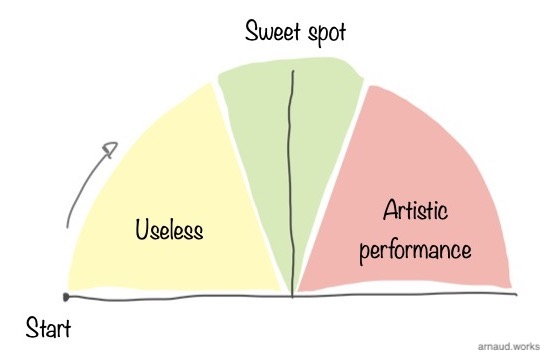
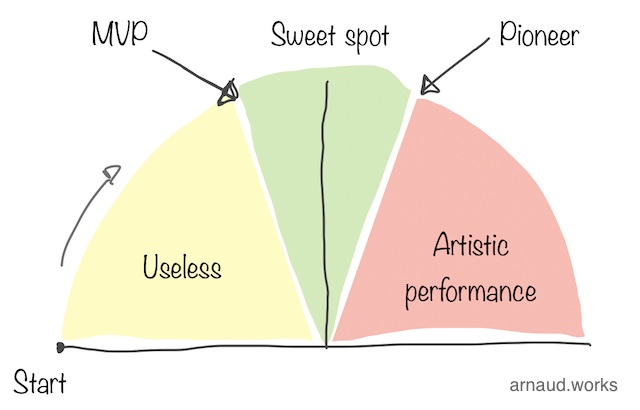
Finished the product sweet spot

diff --git a/pirates-way/productsweetspot.html b/pirates-way/productsweetspot.html
@@ -26,7 +26,35 @@
 <div id='centralcontainer'>
 
     <h3>Product Sweet Spot</h3>
-<p>Coming Soon...</p>
+<p>Whenever I use the word 'product', there is a context implied: 
+You're building something specific for a designated audience that is willing to pay (one way or the other) to have access to this product.
+This also means that it is important to build what this audience truly wants - not much more, not much less - or you won't pass the buy test.</p>
+<p>I talk more on that subject in the Product section below, but figuring out what to build is fundamentally what most people expect when they are looking for product management and/or leadership. </p>
+<p>The process can quickly become murky. Feelings become facts when all sorts of persona come into the mix. 
+This infographic about the animals of product management summarizes it perfectly.</p>
+<p><img alt="Dangerous Animals" src="./images/dangerousanimals.jpg" /></p>
+<p>One of the tool I use to handle this situation is the gauge below. It simply explains the progress of any product from nothing to too much.</p>
+<p>Used properly, it allows you to take a minute and ask yourself where you are. Where this feature, this roadmap is taking you.</p>
+<p><img alt="Product Gauge" src="./images/product_gauge.jpg" /></p>
+<p>Every product development effort start with nothing, and for a giving time it's pretty useless as features are lacking and bugs are overwhelming.</p>
+<p>Eventually, things gets to a point where we're entering a state where the product delivers on what our customer is expecting. 
+You're about to enter the sweet spot, you've got an <strong>MVP</strong>.</p>
+<p>As you continue polishing your product, you enter deeper into the Sweet Spot. 
+You've got a great product that isn't going too far, didn't cost you too much to build and that satisfies your customer fully.</p>
+<p>Going further, you start adding additional features - things like extensions, integrations, nice-to-haves - and this can be beneficial to expand your market, handle edge cases better, defend yourself against the competition.
+Your product is <strong>pioneering</strong> new areas.</p>
+<p>If you take it too far though, you find yourself in the area I call the 'Artistic Performance'.
+In there, you spent a lot of time, money and energy to build the features - and they are cool, fun and impressive - but they aren't addressing what your customer really wants. 
+They wouldn't buy your product any less if it didn't have all these features, and this can easily be exploited by your competition.</p>
+<p>Artistic Performance land is hyper seductive to product owners and engineers as it's where things are the most fun to build, but we aren't building hobby projects, we are building products, and we can't lose sight of who we build it for.</p>
+<p>The tricky question is how can you pinpoint precisely the sweet spot and the two milestones that borders it - the MVP and the Pioneering product.</p>
+<p>I have another tool that add a dimension to help you:</p>
+<p><img alt="Product Rings" src="./images/product_concentrics.jpg" /></p>
+<p>Categorize the features, capabilities you have on these rings. Focus on the one in the center. Don't venture into the next one until 80% of the previous ring is polished.</p>
+<p>There is a lot more to product management than this, but these tools will provide you the perspective you need to keep you from slipping and stay in the sweet spot.</p>
+<p>On a weekly basis I mention the artistic performance. On countless occasions, I had to ground teams of engineers, managers and executives out of the artistic performance as they got carried away into building things our customers didn't actually want.
+So use these tools, take a minute and position yourself. </p>
+<p>Be in the sweet spot, keep the artistic performances for your hobbies or side projects, and build excellent products.</p>
 
 </div>
 <div id='navigation'>

diff --git a/pirates-way/pirates-way.md b/pirates-way/pirates-way.md
@@ -640,8 +640,54 @@ Coming Soon...
 @#$productsweetspot$#@
 ### Product Sweet Spot
 
-[//]: # (![Product Gauge]&#40;./images/product_gauge.jpg&#41;)
-Coming Soon...
+Whenever I use the word 'product', there is a context implied: 
+You're building something specific for a designated audience that is willing to pay (one way or the other) to have access to this product.
+This also means that it is important to build what this audience truly wants - not much more, not much less - or you won't pass the buy test.
+
+I talk more on that subject in the Product section below, but figuring out what to build is fundamentally what most people expect when they are looking for product management and/or leadership. 
+
+The process can quickly become murky. Feelings become facts when all sorts of persona come into the mix. 
+This infographic about the animals of product management summarizes it perfectly.
+
+![Dangerous Animals](./images/dangerousanimals.jpg)
+
+One of the tool I use to handle this situation is the gauge below. It simply explains the progress of any product from nothing to too much.
+
+Used properly, it allows you to take a minute and ask yourself where you are. Where this feature, this roadmap is taking you.
+
+![Product Gauge](./images/product_gauge.jpg)
+
+Every product development effort start with nothing, and for a giving time it's pretty useless as features are lacking and bugs are overwhelming.
+
+Eventually, things gets to a point where we're entering a state where the product delivers on what our customer is expecting. 
+You're about to enter the sweet spot, you've got an **MVP**.
+
+As you continue polishing your product, you enter deeper into the Sweet Spot. 
+You've got a great product that isn't going too far, didn't cost you too much to build and that satisfies your customer fully.
+
+Going further, you start adding additional features - things like extensions, integrations, nice-to-haves - and this can be beneficial to expand your market, handle edge cases better, defend yourself against the competition.
+Your product is **pioneering** new areas.
+
+If you take it too far though, you find yourself in the area I call the 'Artistic Performance'.
+In there, you spent a lot of time, money and energy to build the features - and they are cool, fun and impressive - but they aren't addressing what your customer really wants. 
+They wouldn't buy your product any less if it didn't have all these features, and this can easily be exploited by your competition.
+
+Artistic Performance land is hyper seductive to product owners and engineers as it's where things are the most fun to build, but we aren't building hobby projects, we are building products, and we can't lose sight of who we build it for.
+
+The tricky question is how can you pinpoint precisely the sweet spot and the two milestones that borders it - the MVP and the Pioneering product.
+
+I have another tool that add a dimension to help you:
+
+![Product Rings](./images/product_concentrics.jpg)
+
+Categorize the features, capabilities you have on these rings. Focus on the one in the center. Don't venture into the next one until 80% of the previous ring is polished.
+
+There is a lot more to product management than this, but these tools will provide you the perspective you need to keep you from slipping and stay in the sweet spot.
+
+On a weekly basis I mention the artistic performance. On countless occasions, I had to ground teams of engineers, managers and executives out of the artistic performance as they got carried away into building things our customers didn't actually want.
+So use these tools, take a minute and position yourself. 
+
+Be in the sweet spot, keep the artistic performances for your hobbies or side projects, and build excellent products.
 
 @#$focus$#@
 ### Focus
